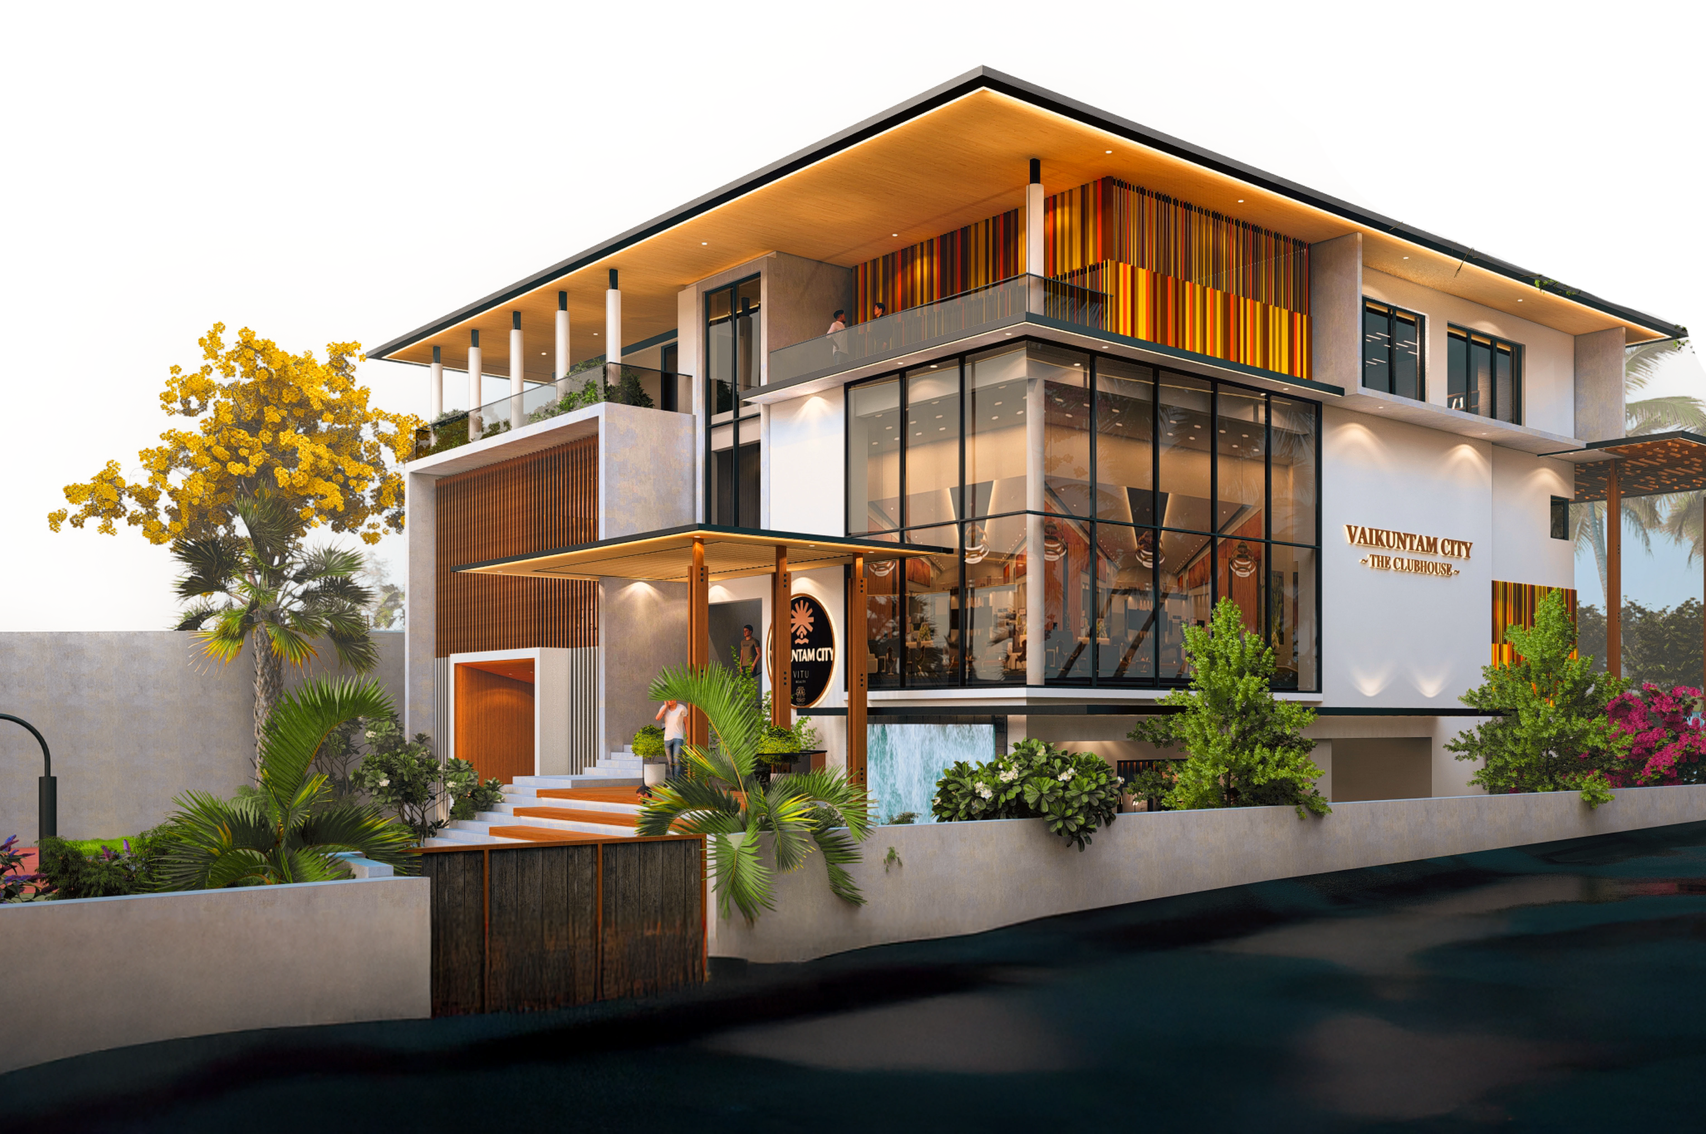
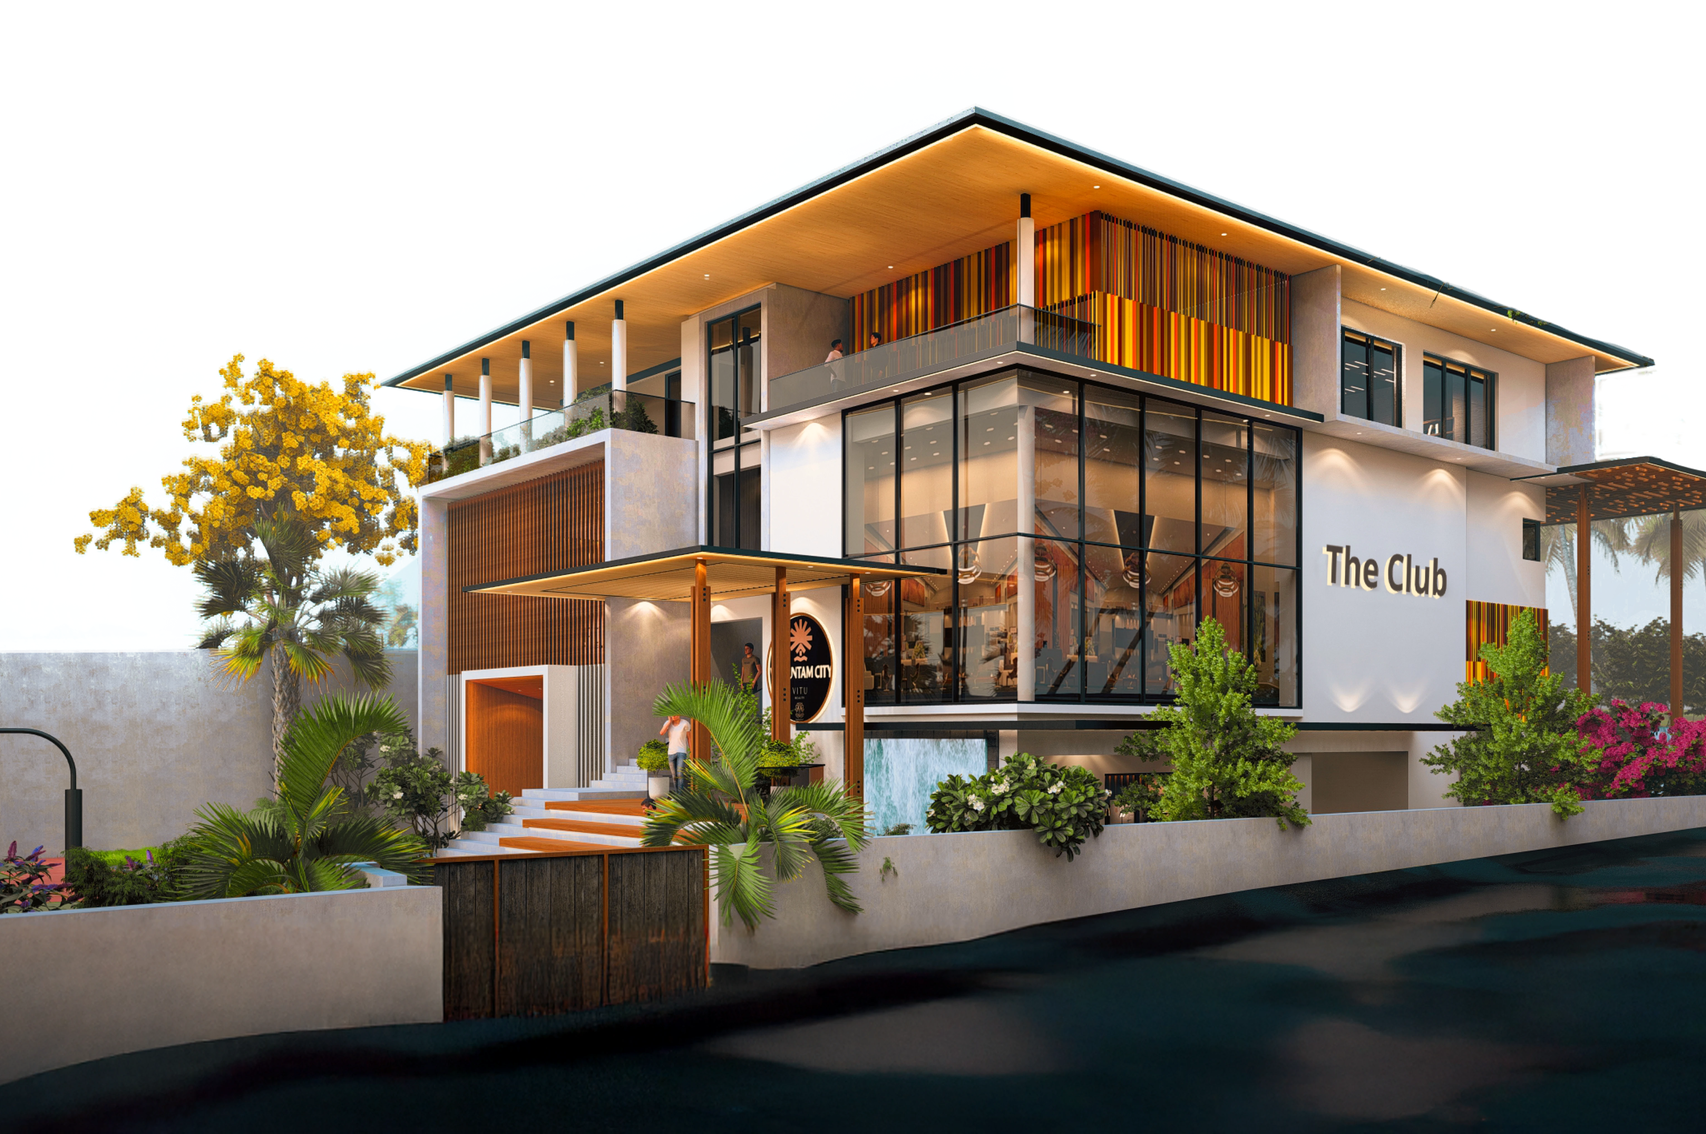
updated the amenities

diff --git a/src/components/VilasamProjectPage/CurrentProject/CurrentProject.tsx b/src/components/VilasamProjectPage/CurrentProject/CurrentProject.tsx
@@ -51,12 +51,12 @@ const LOCATIONS: Location[] = [
     position: "lg:left-[32%]  lg:top-[40%] left-[33%] top-[45%] md:left-[33%] md:top-[43%]  lg:w-[65px]  lg:h-[70px]",
     imagePath: "/images/vilasamCurrentProject/3.png",
     description: [
-      { value: "West Facing Plots", label: "4.00 Cents" },
+      { value: "East Facing Plots", label: "4.00 Cents" },
       {
         value: "",
         label:
-          "Known for welcoming the soft golden glow of the evening sun, west-facing plots are a perfect blend of comfort and warmth. Ideal for those who enjoy cooler mornings and brighter late afternoons, these plots are thoughtfully positioned to maximize natural light while offering serene sunset views right from your doorstep.",
-      },
+        "Designed for early risers and energy-conscious living, east-facing plots bask in the gentle morning light. These plots are ideal for building vastu-compliant homes that align with traditional preferences and modern needs, offering a peaceful start to every day.",
+    },
     ],
   },
   {
@@ -93,12 +93,12 @@ const LOCATIONS: Location[] = [
     position: "left-[30%] top-[62%] md:left-[31%] md:top-[69%] lg:left-[27%] lg:top-[70%]  lg:w-24  lg:h-[58px]",
     imagePath: "/images/vilasamCurrentProject/6.png",
     description: [
-      { value: "West Facing Plots", label: "6.60 Cents" },
+      { value: "East Facing Plots", label: "6.60 Cents" },
       {
         value: "",
         label:
-          "Known for welcoming the soft golden glow of the evening sun, west-facing plots are a perfect blend of comfort and warmth. Ideal for those who enjoy cooler mornings and brighter late afternoons, these plots are thoughtfully positioned to maximize natural light while offering serene sunset views right from your doorstep.",
-      },
+        "Designed for early risers and energy-conscious living, east-facing plots bask in the gentle morning light. These plots are ideal for building vastu-compliant homes that align with traditional preferences and modern needs, offering a peaceful start to every day.",
+    },
     ],
   },
   {
@@ -247,11 +247,11 @@ const LOCATIONS: Location[] = [
     position: "left-[71%] top-[47%] lg:left-[67%] lg:top-[45%]  lg:w-[70px]  lg:h-[58px]",
     imagePath: "/images/vilasamCurrentProject/17.png",
     description: [
-      { value: "East Facing Plots", label: "3.90 Cents" },
+      { value: "West Facing Plots", label: "3.90 Cents" },
       {
         value: "",
         label:
-          "Designed for early risers and energy-conscious living, east-facing plots bask in the gentle morning light. These plots are ideal for building vastu-compliant homes that align with traditional preferences and modern needs, offering a peaceful start to every day.",
+          "Known for welcoming the soft golden glow of the evening sun, west-facing plots are a perfect blend of comfort and warmth. Ideal for those who enjoy cooler mornings and brighter late afternoons, these plots are thoughtfully positioned to maximize natural light while offering serene sunset views right from your doorstep.",
       },
     ],
   },
@@ -261,12 +261,12 @@ const LOCATIONS: Location[] = [
     position: "left-[71%] top-[42%]  md:top-[39%]  lg:left-[67%] lg:top-[34%] lg:w-[70px]  lg:h-[74px]",
     imagePath: "/images/vilasamCurrentProject/18.png",
     description: [
-      { value: "East Facing Plots", label: "4.50 Cents" },
+      { value: "West Facing Plots", label: "4.50 Cents" },
       {
         value: "",
         label:
-          "Designed for early risers and energy-conscious living, east-facing plots bask in the gentle morning light. These plots are ideal for building vastu-compliant homes that align with traditional preferences and modern needs, offering a peaceful start to every day.",
-      },
+        "Known for welcoming the soft golden glow of the evening sun, west-facing plots are a perfect blend of comfort and warmth. Ideal for those who enjoy cooler mornings and brighter late afternoons, these plots are thoughtfully positioned to maximize natural light while offering serene sunset views right from your doorstep.",
+    },
     ],
   },
   {
@@ -275,12 +275,12 @@ const LOCATIONS: Location[] = [
     position: "left-[69%] top-[36%] md:left-[71%] md:top-[30%] lg:left-[67%] lg:top-[23%]  lg:w-[70px]  lg:h-[78px]",
     imagePath: "/images/vilasamCurrentProject/19.png",
     description: [
-      { value: "East Facing Plots", label: "5.00 Cents" },
+      { value: "West Facing Plots", label: "5.00 Cents" },
       {
         value: "",
         label:
-          "Designed for early risers and energy-conscious living, east-facing plots bask in the gentle morning light. These plots are ideal for building vastu-compliant homes that align with traditional preferences and modern needs, offering a peaceful start to every day.",
-      },
+        "Known for welcoming the soft golden glow of the evening sun, west-facing plots are a perfect blend of comfort and warmth. Ideal for those who enjoy cooler mornings and brighter late afternoons, these plots are thoughtfully positioned to maximize natural light while offering serene sunset views right from your doorstep.",
+    },
     ],
   },
   {
@@ -289,12 +289,12 @@ const LOCATIONS: Location[] = [
     position: "left-[70%] top-[28%] md:left-[70%] md:top-[15%] lg:left-[67%] lg:top-[10%]  lg:w-[70px]  lg:h-[84px]",
     imagePath: "/images/vilasamCurrentProject/20.png",
     description: [
-      { value: "East Facing Plots", label: "5.80 Cents" },
+      { value: "West Facing Plots", label: "5.80 Cents" },
       {
         value: "",
         label:
-          "Designed for early risers and energy-conscious living, east-facing plots bask in the gentle morning light. These plots are ideal for building vastu-compliant homes that align with traditional preferences and modern needs, offering a peaceful start to every day.",
-      },
+        "Known for welcoming the soft golden glow of the evening sun, west-facing plots are a perfect blend of comfort and warmth. Ideal for those who enjoy cooler mornings and brighter late afternoons, these plots are thoughtfully positioned to maximize natural light while offering serene sunset views right from your doorstep.",
+    },
     ],
   },
   {
@@ -331,11 +331,11 @@ const LOCATIONS: Location[] = [
     position: "left-[59%]  top-[36%] md:left-[59%]  md:top-[29%] lg:left-[57%]  lg:top-[25%]  lg:w-[70px]  lg:h-[70px]",
     imagePath: "/images/vilasamCurrentProject/23.png",
     description: [
-      { value: "West Facing Plots", label: "4.50 Cents" },
+      { value: "East Facing Plots", label: "4.50 Cents" },
       {
         value: "",
         label:
-          "Known for welcoming the soft golden glow of the evening sun, west-facing plots are a perfect blend of comfort and warmth. Ideal for those who enjoy cooler mornings and brighter late afternoons, these plots are thoughtfully positioned to maximize natural light while offering serene sunset views right from your doorstep.",
+          "Designed for early risers and energy-conscious living, east-facing plots bask in the gentle morning light. These plots are ideal for building vastu-compliant homes that align with traditional preferences and modern needs, offering a peaceful start to every day.",
       },
     ],
   },
@@ -345,12 +345,12 @@ const LOCATIONS: Location[] = [
     position: "left-[59%] top-[42%] lg:left-[57%] md:top-[39%] lg:top-[35%]  lg:w-[70px]  lg:h-[70px]",
     imagePath: "/images/vilasamCurrentProject/24.png",
     description: [
-      { value: "West Facing Plots", label: "4.50 Cents" },
+      { value: "East Facing Plots", label: "4.50 Cents" },
       {
         value: "",
         label:
-          "Known for welcoming the soft golden glow of the evening sun, west-facing plots are a perfect blend of comfort and warmth. Ideal for those who enjoy cooler mornings and brighter late afternoons, these plots are thoughtfully positioned to maximize natural light while offering serene sunset views right from your doorstep.",
-      },
+        "Designed for early risers and energy-conscious living, east-facing plots bask in the gentle morning light. These plots are ideal for building vastu-compliant homes that align with traditional preferences and modern needs, offering a peaceful start to every day.",
+    },
     ],
   },
   {
@@ -373,12 +373,12 @@ const LOCATIONS: Location[] = [
     position: "left-[59%] top-[47%] lg:left-[57%] lg:top-[45%]  lg:w-[70px]  lg:h-[58px]",
     imagePath: "/images/vilasamCurrentProject/26.png",
     description: [
-      { value: "West Facing Plots", label: "3.60 Cents" },
+      { value: "East Facing Plots", label: "3.60 Cents" },
       {
         value: "",
         label:
-          "Known for welcoming the soft golden glow of the evening sun, west-facing plots are a perfect blend of comfort and warmth. Ideal for those who enjoy cooler mornings and brighter late afternoons, these plots are thoughtfully positioned to maximize natural light while offering serene sunset views right from your doorstep.",
-      },
+        "Designed for early risers and energy-conscious living, east-facing plots bask in the gentle morning light. These plots are ideal for building vastu-compliant homes that align with traditional preferences and modern needs, offering a peaceful start to every day.",
+    },
     ],
   },
   {
@@ -387,12 +387,12 @@ const LOCATIONS: Location[] = [
     position: "lg:left-[33%] lg:top-[23%] left-[33%] top-[36%] md:left-[34%] md:top-[30%]   lg:w-[55px]  lg:h-[100px]",
     imagePath: "/images/vilasamCurrentProject/28.png",
     description: [
-      { value: "West Facing Plots", label: "5.40 Cents" },
+      { value: "East Facing Plots", label: "5.40 Cents" },
       {
         value: "",
         label:
-          "Known for welcoming the soft golden glow of the evening sun, west-facing plots are a perfect blend of comfort and warmth. Ideal for those who enjoy cooler mornings and brighter late afternoons, these plots are thoughtfully positioned to maximize natural light while offering serene sunset views right from your doorstep.",
-      },
+        "Designed for early risers and energy-conscious living, east-facing plots bask in the gentle morning light. These plots are ideal for building vastu-compliant homes that align with traditional preferences and modern needs, offering a peaceful start to every day.",
+    },
     ],
   },
   {

diff --git a/src/data/vilasamPlotData.js b/src/data/vilasamPlotData.js
@@ -1,26 +1,27 @@
 
 
 export const plots = [
+  {
+    title: "Corner Plots ",
+    description:
+      "Crafted for elegance and functionality, our Premium Plots are designed to give you the perfect foundation for your dream home, where luxury and quality meet.",
+    src: "/images/vilasamPageImages/plotImages/1.png",
+    color: "#edebeb",
+  },
+  {
+    title: "East Facing Plots",
+    description:
+      "Designed for early risers and energy-conscious living, east-facing plots bask in the gentle morning light. These plots are ideal for building vastu-compliant homes that align with traditional preferences and modern needs, offering a peaceful start to every day.",
+    src: "/images/vilasamPageImages/plotImages/2.png",
+    color: "#dcd7d7",
+  },
     {
       title: "West Facing Plots ",
       description:
         "Known for welcoming the soft golden glow of the evening sun, west-facing plots are a perfect blend of comfort and warmth. Ideal for those who enjoy cooler mornings and brighter late afternoons, these plots are thoughtfully positioned to maximize natural light while offering serene sunset views right from your doorstep.",
       src: "/images/vilasamPageImages/plotImages/3.png",
       color: "#cac3c3",
-    },
-    {
-      title: "East Facing Plots",
-      description:
-        "Designed for early risers and energy-conscious living, east-facing plots bask in the gentle morning light. These plots are ideal for building vastu-compliant homes that align with traditional preferences and modern needs, offering a peaceful start to every day.",
-      src: "/images/vilasamPageImages/plotImages/2.png",
-      color: "#dcd7d7",
-    },
-    {
-      title: "Corner Plots ",
-      description:
-        "Crafted for elegance and functionality, our Premium Plots are designed to give you the perfect foundation for your dream home, where luxury and quality meet.",
-      src: "/images/vilasamPageImages/plotImages/1.png",
-      color: "#edebeb",
     }
+   
   ];
   

diff --git a/src/components/VilasamProjectPage/VilasamProjectNavbar/page.tsx b/src/components/VilasamProjectPage/VilasamProjectNavbar/page.tsx
@@ -63,7 +63,7 @@ const DEFAULT_BUTTON_CONFIG = {
 // ============= Navigation Links =============
 // ============= Navigation Links =============
 const NAV_LINKS = [
-  { href: "carousal", label: "Amenities" },
+  { href: "explore", label: "Amenities" },
   { href: "sustainability", label: "Sustainability" },
   { href: "location", label: "Location" },
 ];
@@ -116,7 +116,7 @@ export default function VilasamProjectNavbar({ showGetInTouch = true, VilasamPro
             {/* Navigation Links - Updated for center alignment */}
             <div className="flex flex-col items-center justify-center flex-grow">
               {NAV_LINKS.map(({ href, label }) => (
-                label === "Amenities" ? (
+                label === "Afmenities" ? (
                   <div 
                     key={href}
                     onClick={() => setIsModalOpen(true)} 
@@ -199,7 +199,7 @@ export default function VilasamProjectNavbar({ showGetInTouch = true, VilasamPro
           <div className={`hidden lg:flex lg2:w-1/2 lg:w-2/3 items-center justify-between`}>
             <div className="flex items-center justify-between w-full">
               {NAV_LINKS.map(({ href, label }) => (
-                label === "Amenities" ? (
+                label === "Amefnities" ? (
                   <div 
                     key={href}
                     onClick={() => setIsModalOpen(true)} 
@@ -208,7 +208,7 @@ export default function VilasamProjectNavbar({ showGetInTouch = true, VilasamPro
                     {label}
                   </div>
                 ) : (
-                  <Link key={href} to={href} smooth={true} duration={700}>
+                  <Link key={href} to={href} smooth={true} duration={1200}>
                     <div className="2xl:text-4xl text-white text-sm lg2:text-[18px] xl:text-2xl cursor-pointer font-geistSerif">
                       {label}
                     </div>

diff --git a/src/components/VilasamProjectPage/LyfeStyle/LyfeStyle.tsx b/src/components/VilasamProjectPage/LyfeStyle/LyfeStyle.tsx
@@ -397,17 +397,17 @@ const LyfeStyle = () => {
                     </h2>
 
                     <p className="text-[#040707]/60 font-sourceSans3 text-sm md:!text-xl  ">
-                      At the heart of Vilasam lies The Club — a sprawling 20,000 sq.ft. clubhouse designed to enrich everyday living. Whether it's a
+                      At the heart of Vilasam lies The Club,  a sprawling 20,000 sq.ft of clubhouse amenities designed to enrich everyday living. Whether it's a
                       quiet moment of reflection or a lively gathering with neighbors, the clubhouse brings together spaces that cater to wellness,
                       connection, and celebration.
                     </p>
                     <p className="text-[#040707]/60 font-sourceSans3 text-sm md:!text-xl ">
                       From indoor activity zones to calm corners for reading or relaxing, every detail has been thoughtfully curated to elevate the
-                      way you live. It's more than just a building — it's where community comes alive, and where every visit feels like an escape
+                      way you live. It's more than just a building, it's where community comes alive, and where every visit feels like an escape
                       within your own neighborhood.
                     </p>
                     <div className="mt-8">
-                      <h3 className="font-bold text-[#04070799] md:text-[24px] font-sourceSans3 pb-6 text-[18px]">World-Class Amenities</h3>
+                      <h3 className="font-bold text-[#04070799] md:text-[24px] font-sourceSans3 pb-6 text-[18px]">The Club - Amenities</h3>
                       <div className="grid grid-cols-1 gap-4">
                         {[
                           "Lounge",

diff --git a/src/components/VilasamProjectPage/VilasamLocation/page.tsx b/src/components/VilasamProjectPage/VilasamLocation/page.tsx
@@ -160,7 +160,7 @@ const LocationAdvantage = () => {
     {
       title: "Investment Potential",
       description: "Invest in Land, Invest in Legacy",
-      text: "An address of quiet comfort & lasting promise—where every day feels right, & every year adds value.",
+      text: "An address of quiet comfort & lasting promise where every day feels right, & every year adds value.",
       buttonText: "More about the Project",
       image: "/images/vilasamPageImages/locationAdvantageImages/invest.png",
       mobileImage: "/images/vilasamPageImages/locationAdvantageImages/mobileImage2.webp",
@@ -199,7 +199,7 @@ const LocationAdvantage = () => {
     },
     {
       title: "Location Advantage",
-      description: "Shaped Around You,A Place to Live Fully",
+      description: "Shaped Around You, A Place to Live Fully",
       text: "Enjoy the soothing sounds of waves & the convenience of a beachside retreat just minutes away from the beach.",
       buttonText: "More about the Project",
       image: "/images/vilasamPageImages/locationAdvantageImages/1.webp",
@@ -214,7 +214,7 @@ const LocationAdvantage = () => {
       amenitiesDetails: [
         {
           image: "/images/vilasamPageImages/locationAdvantageImages/5.webp",
-          title: "Shaped Around You,A Place to Live Fully",
+          title: "Shaped Around You, A Place to Live Fully",
           description:
             "Discover a life where calm is your closest neighbor. At Vilasam, every element from tree-lined avenues to open green corners is thoughtfully planned to offer a peaceful lifestyle away from the city's chaos. It's a place where mornings begin with birdsong and evenings wind down with golden skies and gentle breezes.",
           middleDescription:

diff --git a/src/app/(vilasam)/vilasam/page.tsx b/src/app/(vilasam)/vilasam/page.tsx
@@ -58,25 +58,25 @@ export default function ProjectPage({}: ProjectPageProps) {
       <section className="bg-white">
         <VilasamCarousel />
       </section>
-      <section>
+      <section id="sustainability">
         <LocationAdvantage />
       </section>
       <section className="bg-[#FAFFFD]">
         <ElevatesLiving />
       </section>
-      <section id="sustainability" className="bg-[#FAFFFD] ">
+      <section  className="bg-[#FAFFFD] ">
         <CurrentProject />
       </section>
       <section className="bg-[#FAFFFD]">
         <LyfeStyle />
       </section>
-      <section id="location" className="bg-[#FAFFFD] md:block hidden">
+      <section  className="bg-[#FAFFFD] md:block hidden">
         <PlotConnection/>
       </section>
-      <section  id="location" className="bg-[#FAFFFD] md:hidden block">
+      <section   className="bg-[#FAFFFD] md:hidden block">
         <PlotConnectionMobile/>
       </section>
-      <section id="carousal" className="bg-[#FAFFFD]">
+      <section  className="bg-[#FAFFFD]">
         <VilasamExploreProjects />
       </section>
       <section className="bg-[#FAFFFD] hidden md:block">

diff --git a/src/components/VilasamProjectPage/VilasamDetails/page.tsx b/src/components/VilasamProjectPage/VilasamDetails/page.tsx
@@ -66,8 +66,8 @@ const ElevatesLiving: React.FC = () => {
             Where Every Detail Elevates Living
           </h2>
           <p className="lg:w-1/2 lg2:text-[24px]  md:text-lg text-sm text-[#0C3E49]/60  font-sourceSans3">
-            At Vilasam, 30ft wide cobblestone roads set the tone for a thoughtfully designed community — complete with tree-lined footpaths, solar-lit
-            streets & landscapes that breathe with over 50+ Trees, Cobblestone-paved Roads
+            At Vilasam, 30ft wide cobblestone-paved roads set the tone for a thoughtfully designed community  complete with tree-lined footpaths, solar-lit
+            streets & landscapes that breathe with over 50+ trees
             & open green spaces.
           </p>
         </div>

diff --git a/src/components/VilasamProjectPage/PlotConnectionMobile/PlotConnectionMobile.tsx b/src/components/VilasamProjectPage/PlotConnectionMobile/PlotConnectionMobile.tsx
@@ -275,7 +275,7 @@ const PlotConnectionMobile = () => {
   };
 
   return (
-    <section className="w-full max-w-sm mx-auto space-y-4 bg-white rounded-lg relative">
+    <section id="location" className="w-full max-w-sm mx-auto space-y-4 bg-white rounded-lg relative">
       <div className="px-[1rem] space-y-2">
         <h2 className="text-2xl lg:text-5xl lg2:text-6xl text-[#0C3E49] font-medium font-geistSerif  md:pb-10 pb-2">Well-Connected Living</h2>
         <p className="md:max-w-[553px] xl:max-w-[458px] 2xl:max-w-[855px] pb-4 lg2:text-[24px]  md:text-lg text-sm text-[#0C3E49]/60  font-sourceSans3 ">

diff --git a/src/components/VilasamProjectPage/VilasamExploreProject/page.tsx b/src/components/VilasamProjectPage/VilasamExploreProject/page.tsx
@@ -133,7 +133,7 @@ const VilasamExploreProjects: React.FC<VilasamExploreProjectsProps> = ({ homePag
   return (
     <>
       {/* Desktop Version */}
-      <div className="md:block hidden relative z-0 overflow-hidden" >
+      <div className="md:block hidden relative z-0 overflow-hidden" id="explore" >
         <ExpandableCards  cards={CARDS_DATA} textColor={textColor} borderColor={controlButtonBg} textStyle={textStyle}/>
       </div>
 

diff --git a/src/components/VilasamProjectPage/VilasamPlotConnection/PlotConnection.tsx b/src/components/VilasamProjectPage/VilasamPlotConnection/PlotConnection.tsx
@@ -244,7 +244,7 @@ const PlotConnection = () => {
   const selectedType = activeIndex === null ? null : legendItems[activeIndex].label;
 
   return (
-    <div className="relative inline-block h-[100vh] w-full">
+    <div id="location" className="relative inline-block h-[100vh] w-full">
       {/* Background Image */}
       <Image src={image1} alt="Plot Location Map" quality={100} className="w-full h-[100vh] object-cover" priority />
 
